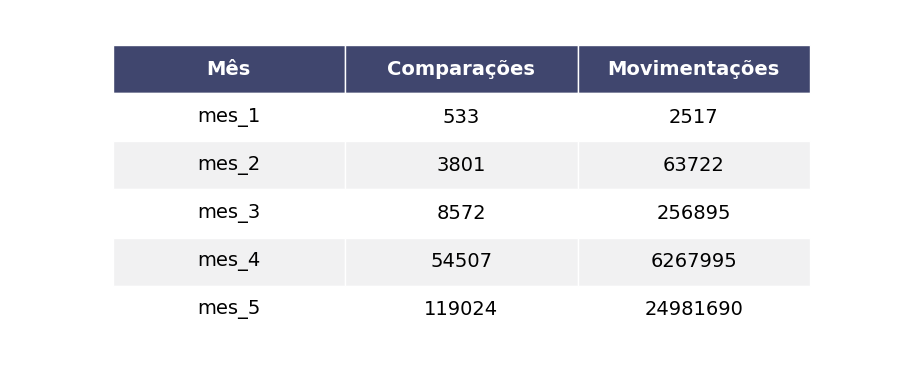
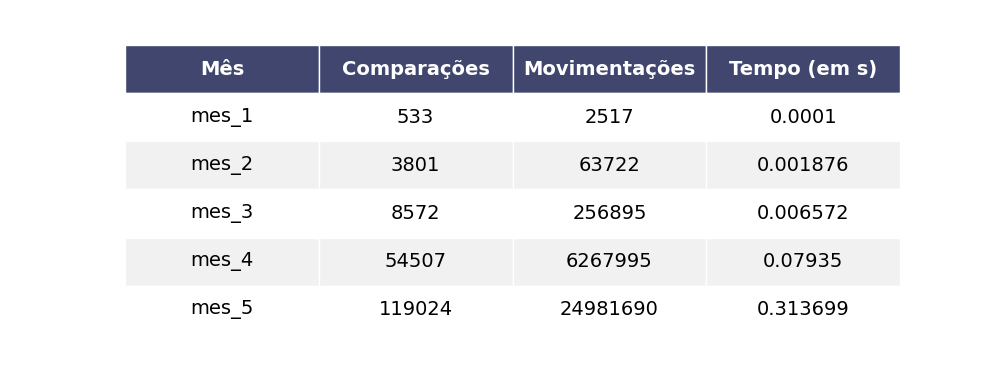
Add time info about each function to data analysis

diff --git a/src/library.h b/src/library.h
@@ -2,6 +2,7 @@
 #include <stdio.h>
 #include <stdlib.h>
 #include <string.h>
+#include <time.h>
 
 #define TRUE 1
 #define FALSE 0
@@ -22,7 +23,7 @@ void swap(char *obj1, char *obj2);
 void move(char *dest, char *source);
 void print(char **array, int size);
 void print_subarray(char **array, int left, int right);
-void resize_array(char **array, int *size, int new_size);
+char **resize_array(char **array, int *size, int new_size);
 FILE *open_file(char *filename, char *open_mode);
 char **start_array(char **array, int *size);
 void zero_counters();
@@ -50,6 +51,8 @@ char *shake_sort(char **array, int size);
 // Search function prototypes
 int binary_search(char **array, int size, char key[STRING_SIZE]);
 
+// Structure for searching a desired code in the files with all relevant info
+// to be printed to the user.
 typedef struct found_code {
     int index;
     int month;
@@ -58,7 +61,14 @@ typedef struct found_code {
 
 int count_compare = 0; // Count number of comparisons made
 int count_moves = 0;   // Count number of moves made
+time_t start;
+time_t end;
 
+// The majority of sorting algorithms has no need of needing in the index 1, so
+// was chosen that they must be 0 indexed. But there are a minority of cases
+// that depend in the start at index 1, so this function works to transform a
+// vector that is 0 indexed in 1 indexed by using realloc to increment its size
+// and shifting all elements one to the right.
 char **right_shift(char **array, int *size) {
     (*size)++;
 
@@ -67,7 +77,6 @@ char **right_shift(char **array, int *size) {
         array[i] = (char *)realloc(array[i], sizeof(char) * STRING_SIZE);
     }
 
-    // Preserva a ordem, move todos os elementos um para a direita
     for (int i = (*size - 2); i >= 0; i--) {
         strcpy(array[i + 1], array[i]);
     }
@@ -75,6 +84,10 @@ char **right_shift(char **array, int *size) {
     return array;
 }
 
+// Since all the other functions assume that the vector is 0 indexed, when we
+// use the right_shift function, it is needed to change all elements back to its
+// place and start again at zero. The left_shift does that by moving the
+// elements one to the left and then reallocating the array one element less.
 char **left_shift(char **array, int *size) {
     for (int i = 1; i < (*size); i++) {
         strcpy(array[i - 1], array[i]);
@@ -86,12 +99,15 @@ char **left_shift(char **array, int *size) {
     return array;
 }
 
+// To increment the comparison counter every time and only when strcmp is called
+// this "wrapper" function was created, executing always both as a pair.
 int compare(char *str1, char *str2) {
     count_compare++;
 
     return strcmp(str1, str2);
 }
 
+// Atributes the value of obj1 in obj2 and vice-versa using the move function.
 void swap(char *obj1, char *obj2) {
     char var[STRING_SIZE];
 
@@ -100,19 +116,19 @@ void swap(char *obj1, char *obj2) {
     move(obj2, var);
 }
 
+// Following the same logic in the compare function, this will atribute the
+// value of source in dest, incrementing the value in the movementation counter.
 void move(char *dest, char *source) {
     count_moves++;
 
     strcpy(dest, source);
 }
 
-void print(char **array, int size) {
-    for (int i = 0; i < size; i++) {
-        printf("%s\t", array[i]);
-    }
-    printf("\n");
-}
+// Shows in the screen the values in the array in a reasonable formatation.
+void print(char **array, int size) { print_subarray(array, 0, size); }
 
+// Prints a section of an array. It starts with element in the left index and
+// goes to, but not including, the element in the right index.
 void print_subarray(char **array, int left, int right) {
     for (int i = left; i < right; i++) {
         printf("%s\t", array[i]);
@@ -120,11 +136,17 @@ void print_subarray(char **array, int left, int right) {
     printf("\n");
 }
 
-void resize_array(char **array, int *size, int new_size) {
+// Changes the size in a dinamically allocated array and sets the size variable
+// to the new array size.
+char **resize_array(char **array, int *size, int new_size) {
     array = (char **)realloc(array, sizeof(char *) * new_size);
     (*size) = new_size;
+
+    return array;
 }
 
+// Open a file with the path and open_mode given as parameter and deals with
+// the case the file could not be open
 FILE *open_file(char *filename, char *open_mode) {
     FILE *file;
 
@@ -137,6 +159,11 @@ FILE *open_file(char *filename, char *open_mode) {
     return file;
 }
 
+// Performs the initial memory allocation of an array, allocating its main
+// array and each string that will be part of it. The initial defined size to
+// it is 3. The parameter size is a pointer only to retreave this new value,
+// since while returning the pointer to the new array, it was not possible to
+// receive this value.
 char **start_array(char **array, int *size) {
     (*size) = 3;
 
@@ -148,23 +175,23 @@ char **start_array(char **array, int *size) {
     return array;
 }
 
+// Sets all the counters with value 0
 void zero_counters() {
     count_compare = 0;
     count_moves = 0;
 }
 
+// Increments the size of an array in 3 and allocates its new strings.
 char **expand_array(char **array, int *size) {
-    int initial_size = (*size);
-    (*size) += 3;
-
-    array = (char **)realloc(array, sizeof(char *) * (*size));
-    for (int j = initial_size; j < (*size); j++) {
+    array = resize_array(array, size, (*size) + 3);
+    for (int j = *size - 3; j < (*size); j++) {
         array[j] = (char *)malloc(sizeof(char) * STRING_SIZE);
     }
 
     return array;
 }
 
+// Opens and closes a file in the reading mode and returns its content
 char **read_file(char *filename, int *size) {
     char string[STRING_SIZE];
     int count = 0;
@@ -186,7 +213,7 @@ char **read_file(char *filename, int *size) {
     }
 
     if (count != (*size)) {
-        resize_array(array, size, count);
+        array = resize_array(array, size, count);
     }
 
     fclose(file);
@@ -194,16 +221,12 @@ char **read_file(char *filename, int *size) {
     return array;
 }
 
+// Opens and close a file in the writing mode and writes the content given to it
+// in the parameters in it.
 void write_output_file(char filename[FILENAME_SIZE], char **content, int size) {
     FILE *file;
 
-    file = fopen(filename, "w");
-    if (file == NULL) {
-        printf("It was not possible to create file %s, please check "
-               "permissions!\n",
-               filename);
-        return;
-    }
+    file = open_file(filename, "w");
 
     for (int i = 0; i < size; i++) {
         fprintf(file, "%s\n", content[i]);
@@ -212,6 +235,7 @@ void write_output_file(char filename[FILENAME_SIZE], char **content, int size) {
     fclose(file);
 }
 
+// Returns a copy of the data given to it
 char **copy_data(char **target, char **obj, int size) {
     target = (char **)malloc(sizeof(char *) * size);
     for (int i = 0; i < size; i++) {
@@ -222,14 +246,22 @@ char **copy_data(char **target, char **obj, int size) {
     return target;
 }
 
+// Writes a .csv file with all the information registereds in the counter of
+// comparisons and movimentations in a line with the month file that it relates
+// to.
 void write_data_file(char filename[FILENAME_SIZE], char month[MONTH_STR_SIZE]) {
     FILE *file;
+    double time;
 
-    file = fopen(filename, "a");
-    fprintf(file, "%s,%d,%d\n", month, count_compare, count_moves);
+    time = (double)difftime(end, start) / CLOCKS_PER_SEC;
+
+    file = open_file(filename, "a");
+    fprintf(file, "%s,%d,%d,%f\n", month, count_compare, count_moves, time);
     fclose(file);
 }
 
+// Deals with the answer of a user, removing the \n if it exists and transform
+// it in uppercase, to avoid mistakes made by the user.
 void clean_answer(char answer[STRING_SIZE]) {
     answer[strcspn(answer, "\n")] = 0;
 

diff --git a/data/data_generator.py b/data/data_generator.py
@@ -21,7 +21,7 @@ def create_graph(x_axis, y_axis, model, name):
     plt.scatter(x_axis, y_axis, color="blue")
 
     plt.title(model.title() + " por arquivo - " + name)
-    plt.xlabel("Arquivo escolhido")
+    plt.xlabel("Número de linhas do arquivo")
     plt.ylabel("Número de " + model)
 
     plt.grid()
@@ -32,7 +32,7 @@ def create_graph(x_axis, y_axis, model, name):
 def render_mpl_table(data):
     # #f1f1f2 is a light gray
     row_colors = ["#f1f1f2", "w"]
-    _, ax = plt.subplots(figsize=(9, 3.75))
+    _, ax = plt.subplots(figsize=(10, 3.75))
     # (9, 3.75) was defined as the best size experimentally
     ax.axis("off")  # We don't want the graph axis showing in the table
 
@@ -61,7 +61,7 @@ def render_mpl_table(data):
 
 
 def create_table(csv_file):
-    headers = ["Mês", "Comparações", "Movimentações"]
+    headers = ["Mês", "Comparações", "Movimentações", "Tempo (em s)"]
     csv_data = pd.read_csv(f"files/{csv_file}", names=headers)
 
     ax = render_mpl_table(csv_data)
@@ -80,6 +80,7 @@ def main():
             arquivo = []
             comparacoes = []
             movimentos = []
+            tempos = []
 
             for line in f:
                 line = line.rstrip()
@@ -88,9 +89,11 @@ def main():
                 arquivo.append(lines_in_file[line[0]])
                 comparacoes.append(int(line[1]))
                 movimentos.append(int(line[2]))
+                tempos.append(float(line[3]))
 
         create_graph(arquivo, comparacoes, "comparações", name)
         create_graph(arquivo, movimentos, "movimentos", name)
+        create_graph(arquivo, tempos, "segundos", name)
         create_table(nome_do_arquivo)
 
 

diff --git a/src/sorting/main.h b/src/sorting/main.h
@@ -13,7 +13,9 @@ void sort(char *sort(char **, int), char **array, int *size, char *month) {
     char function_name[FUNC_NAME_SIZE];
     char filename[FILENAME_SIZE];
 
+    start = clock();
     strcpy(function_name, sort(array, *size));
+    end = clock();
 
     sprintf(filename, "output/sorting/%s/%s.txt", month, function_name);
     write_output_file(filename, array, *size);
